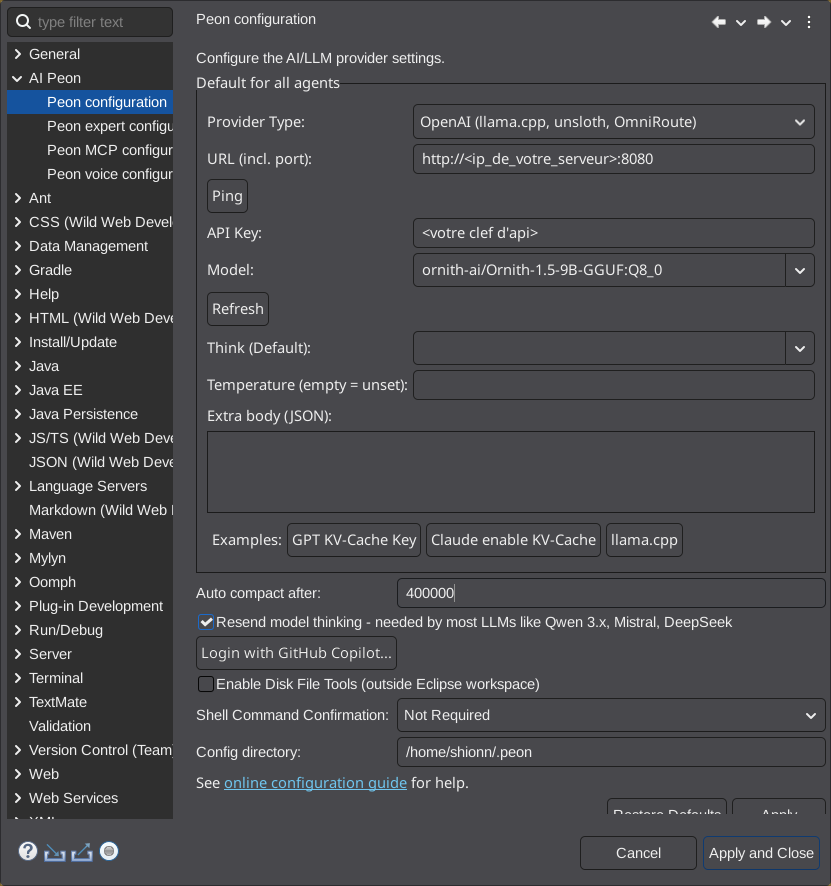
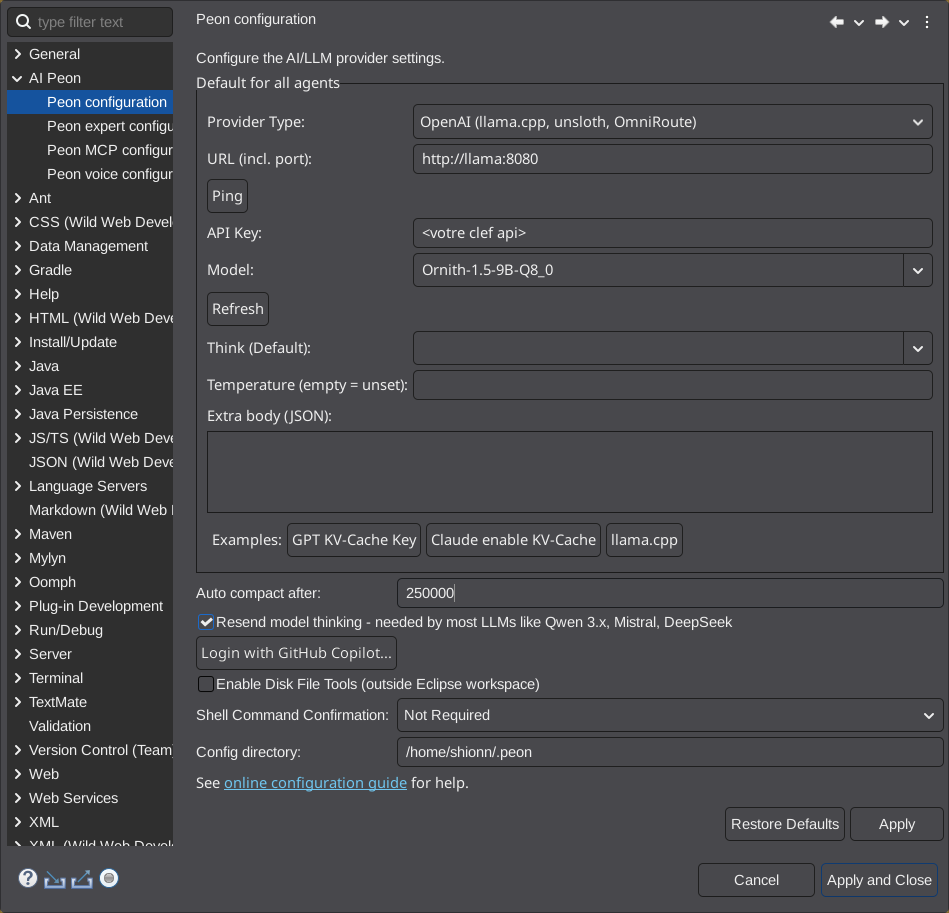
LLama.cpp

diff --git a/docs/draft/llama-proxmox-nvidia.html b/docs/draft/llama-proxmox-nvidia.html
@@ -248,7 +248,7 @@
 			<article>
 	<header>
 		
-		<h1><a href="draft/llama-proxmox-nvidia.html">LLama dans Proxmox avec Nvidia</a></h1>
+		<h1><a href="draft/llama-proxmox-nvidia.html">Llama dans Proxmox avec Nvidia</a></h1>
 		<div>
 			<span>Publié le 21 novembre 2026</span>
 			<span>
@@ -261,7 +261,7 @@
 			</span>
 		</div>
 	</header>
-	<section><p>Dans un <a href="2026/nvidia-proxmox-lxc-passthrought-ollama.html">précédent article</a> j'expliquais comment j'avais installé Ollama et Open Webui dans un conteneur LXC sur Proxmox en faisant un passthrough de ma 2080Ti. Aujourd'hui cet article est très proche du précédent, je recommence avec <a href="https://llama.cpp/" target="_blank">llama.cpp</a> mais cette fois-ci avec ma nouvelle 2080Ti 22 Go.</p>
+	<section><p>Dans un <a href="2026/nvidia-proxmox-lxc-passthrought-ollama.html">précédent article</a> j'expliquais comment j'avais installé Ollama et Open Webui dans un conteneur LXC sur Proxmox en faisant un passthrough de ma 2080Ti. Aujourd'hui, cet article est très proche du précédent, je recommence avec <a href="https://llama.cpp/" target="_blank">llama.cpp</a> mais cette fois-ci avec ma nouvelle RTX 2080 Ti de 22 Go.</p>
 <h1>Un conteneur Proxmox LXC avec NVIDIA.</h1>
 <h2>Installation des drivers NVIDIA.</h2>
 <p>Il faut installer les drivers NVIDIA sur votre serveur Proxmox.
@@ -276,7 +276,7 @@ Pour cela, commencez par mettre à jour votre serveur :</p>
 Cela passe les drivers nouveaux en blacklist et installe quelques paquets nécessaires.</p>
 <pre class="shell"><code class="shell">pve-nvidia-vgpu-helper setup
 </code></pre>
-<p>Ensuite il ne vous reste plus qu'à installer les paquets du driver NVIDIA ensuite la méthode extrepo :</p>
+<p>Ensuite il ne vous reste plus qu'à installer les paquets du driver NVIDIA, puis la méthode extrepo :</p>
 <pre class="shell"><code class="shell">apt install extrepo
 extrepo enable nvidia-cuda
 apt update
@@ -284,7 +284,7 @@ apt install nvidia-open
 </code></pre>
 <h2>Création du conteneur</h2>
 <p>Je crée ici un conteneur Debian 13 avec 4 cœurs, 16 Go de RAM et 64 Go de disque.
-J'ajouterai par la suite si j'ai besoin d'en plus.
+J'ajouterai par la suite si j'ai besoin d'en ajouter.
 Il n'est pas nécessaire d'avoir un conteneur non privilégié.</p>
 <p>Une fois votre conteneur créé, il faut partager votre carte à votre conteneur.
 Commençons par identifier les périphériques NVIDIA :</p>
@@ -338,7 +338,7 @@ apt install nvidia-open
 <p>Ici c'est assez simple, il suffit de suivre la procédure officielle :</p>
 <pre class="shell"><code class="shell">curl -LsSf https://llama.app/install.sh | sh
 </code></pre>
-<p>Comme llama s'installe dans votre home (ici je m'embête pas je le fais en root) il faut ensuite l'ajouter à votre PATH. Ajoutez cette ligne à votre .profile :</p>
+<p>Comme llama s'installe dans votre home (ici je m'embête pas, je le fais en root), il faut ensuite l'ajouter à votre PATH. Ajoutez cette ligne à votre .profile :</p>
 <pre class="shell"><code class="shell">export PATH=&quot;$HOME/.local/bin:$PATH&quot;
 </code></pre>
 <h2>Installation en service</h2>
@@ -363,12 +363,14 @@ export PATH=&quot;$HOME/.local/bin:$PATH&quot;
 
 # à adapter en fonction de votre modèle et la VRAM que vous avez.
 # Attention ici j'ai un gros cache mais n'oubliez pas que j'ai 22 Go de VRAM.
-export LLAMA_ARG_CTX_SIZE=&quot;400000&quot;
+export LLAMA_ARG_CTX_SIZE=&quot;262144&quot;
 
 llama serve --host 0.0.0.0 \
   --n-gpu-layers all \
   --flash-attn on \
   -ctk q8_0 -ctv q8_0 \
+  --spec-type draft-dflash \
+  --models-preset models.ini \
   --api-key-file api-key
 </code></pre>
 <p>Explications</p>
@@ -379,22 +381,39 @@ llama serve --host 0.0.0.0 \
 <li>-ctk q8_0 : Quantifier le cache K en 8 bits au lieu de fp16</li>
 <li>-ctv q8_0 : Quantifier le cache V en 8 bits au lieu de fp16</li>
 <li>--api-key-file api-key : fichier des clés d'authentification, une clé par ligne</li>
+<li>--spec-type draft-dflash : c'est pour les models draft (voir plus bas)</li>
+<li>--models-preset models.ini : fichier de parametrage de models (voir plus bas)</li>
 </ul>
 <p>Puis finalisons l'installation du service</p>
 <pre class="shell"><code class="shell">systemctl daemon-reload
 systemctl enable llama-serve.service
 </code></pre>
 <h2>Télécharger un premier modèle</h2>
-<p>J'aime beaucoup le modèle Ornith, il est vraiment adapté à la génération de code en agentique et n'est pas très lourd. Je prends ici la version quantisée en 8 bit mais vous pouvez prendre la version Q6_K qui est aussi très performante.</p>
+<p>J'aime beaucoup le modèle Ornith, il est vraiment adapté à la génération de code de façon agentique et n'est pas très lourd.
+Je prends ici la version quantisée à 8 bits mais vous pouvez prendre la version Q6_K qui est aussi très performante.</p>
 <pre class="shell"><code class="shell">llama download -hf ornith-ai/Ornith-1.5-9B-GGUF:Q8_0
+</code></pre>
+<p>Pui télécharger son model draft.
+Un modèle DFlash permet d'accélérer le décodage spéculatif en générant un brouillon en amont de la déduction.
+Sur ce model, sans le DFlash j'ai une génération d'environ 50 tok/seconde et avec environ 70.</p>
+<pre class="shell"><code class="shell">llama download -hf abenzerps/Ornith-1.5-9B-DFlash-GGUF:Q8_0
+</code></pre>
+<h2>Paramétrer les models</h2>
+<p>Chaque model peu avoir des parametres différents. C'est a cela que sert le fichiers models.ini qu'on a paramétré plus tot. En autre ca permet de definir le model draft adapté à chaque model et la taille du cache.</p>
+<pre class="shell"><code class="shell">[*]
+
+[Ornith-1.5-9B-Q8_0]
+ctx-size=262144
+hf=ornith-ai/Ornith-1.5-9B-GGUF:Q8_0
+hf-repo-draft=abenzerps/Ornith-1.5-9B-DFlash-GGUF:Q8_0
 </code></pre>
 <p>Puis relancez le service :</p>
 <pre class="shell"><code class="shell">systemctl enable llama-serve.service
 </code></pre>
 <h2>Test</h2>
-<p>Vous pouvez vous connecter au port 8080 de votre serveur à l'aide de votre navigateur et commencer à l'utiliser</p>
+<p>Vous pouvez vous connecter au port 8080 de votre serveur à l'aide de votre navigateur et commencer à l'utiliser.</p>
 <div class="gallery"><a href="/pictures/linux/proxmox-lxc-llama/llama-interface-web.png"><img src="/pictures/linux/proxmox-lxc-llama/llama-interface-web-500-400.png" width="500" height="400"></a></div>
-<h1>Utilisation en agentique dans Eclipse</h1>
+<h1>Utilisation de façon agentique dans Eclipse</h1>
 <h2>Installation de Peon AI</h2>
 <p>J'utilise l'extension PeonAI pour faire de l'agentique. Il peut s'installer via le marketplace d'Eclipse :</p>
 <div class="gallery"><a href="/pictures/linux/proxmox-lxc-llama/peon-ai-eclipse-marketplace.png"><img src="/pictures/linux/proxmox-lxc-llama/peon-ai-eclipse-marketplace.png"></a></div>
@@ -403,7 +422,7 @@ systemctl enable llama-serve.service
 <p>Puis vous pouvez l'utiliser en ouvrant la vue <code>AI Peon</code> dans <code>Window &gt; Show View &gt; Other &gt; AI</code>. Ici je lui demande de corriger cet article.</p>
 <div class="gallery"><a href="/pictures/linux/proxmox-lxc-llama/peon-ai-eclipse-utilisation.png"><img src="/pictures/linux/proxmox-lxc-llama/peon-ai-eclipse-utilisation.png"></a></div></section>
 	<footer>
-		<em class="author">par Shionn, le 21 novembre 2026.</em>
+		<em class="author">par Shionn, le 21 novembre 2026<span>, derniére modification le 23 octobre 2026</span>.</em>
 		<h2>Commentaires</h2>
 		<div class="comments"></div>
 		<h2>Ajouter un commentaire</h2>

diff --git a/docs/2024/kruelboyz-dominion.html b/docs/2024/kruelboyz-dominion.html
@@ -261,11 +261,11 @@
 			</span>
 		</div>
 	</header>
-	<section><p>Cette armée de Morruck Kruelboyz est composé de figurine de la boite Dominion, et de l'abonnement Stormbringer.</p>
-<p>J'ai eu deux boites dominion, pas de ma volonté.
-De la seconde boite je n'ai gardé que les 10 éventreurs et les 3 Embrocheurs.
-Tous le reste à été donné ou vendu.
-Pourquoi en Violet ? je ne sais pas.</p>
+	<section><p>Cette armée de Morruck Kruelboyz est composée de figurines de la boîte Dominion, et de l'abonnement Stormbringer.</p>
+<p>J'ai eu deux boîtes dominion, pas de ma volonté.
+De la seconde boîte je n'ai gardé que les 10 éventreurs et les 3 Embrocheurs.
+Tout le reste a été donné ou vendu.
+Pourquoi en violet ? Je ne sais pas.</p>
 <h1>Bosskitue avec Grot Surineur</h1>
 <ul>
 <li>Peinte en Mars 2022.</li>
@@ -287,7 +287,7 @@ Pourquoi en Violet ? je ne sais pas.</p>
 </ul>
 <div class="gallery"><a href="pictures/aos/kruelboyz/nobskur-rotetendard/1.jpg"><img src="pictures/aos/kruelboyz/nobskur-rotetendard/1-250-300.jpg" width="250" height="300"></a><a href="pictures/aos/kruelboyz/nobskur-rotetendard/2.jpg"><img src="pictures/aos/kruelboyz/nobskur-rotetendard/2-250-300.jpg" width="250" height="300"></a><a href="pictures/aos/kruelboyz/nobskur-rotetendard/3.jpg"><img src="pictures/aos/kruelboyz/nobskur-rotetendard/3-250-300.jpg" width="250" height="300"></a></div>
 <h1>Eventreurs</h1>
-<p>Pourquoi j'ai fait les 10 de la seconde boite en rouge ? Je ne sais pas.</p>
+<p>Pourquoi j'ai fait les 10 de la seconde boîte en rouge ? Je ne sais pas.</p>
 <ul>
 <li>Peinte en Mars 2022 pour les violets.</li>
 <li>Peinte en Avril 2022 pour les rouges.</li>
@@ -300,13 +300,13 @@ Pourquoi en Violet ? je ne sais pas.</p>
 </ul>
 <div class="gallery"><a href="pictures/aos/kruelboyz/embrocheurs/1.jpg"><img src="pictures/aos/kruelboyz/embrocheurs/1-350-250.jpg" width="350" height="250"></a><a href="pictures/aos/kruelboyz/embrocheurs/2.jpg"><img src="pictures/aos/kruelboyz/embrocheurs/2-350-250.jpg" width="350" height="250"></a><a href="pictures/aos/kruelboyz/embrocheurs/3.jpg"><img src="pictures/aos/kruelboyz/embrocheurs/3-350-250.jpg" width="350" height="250"></a><a href="pictures/aos/kruelboyz/embrocheurs/4.jpg"><img src="pictures/aos/kruelboyz/embrocheurs/4-350-250.jpg" width="350" height="250"></a></div>
 <h1>Egorgeur Hobgrot</h1>
-<p>J'ai pas peint ceux de la seconde boite (faut pas déconner).</p>
+<p>J'ai pas peint ceux de la seconde boîte (faut pas déconner).</p>
 <ul>
 <li>Peinte en Mars 2022.</li>
 </ul>
 <div class="gallery"><a href="pictures/aos/kruelboyz/egorgeur-hobgrot/1.jpg"><img src="pictures/aos/kruelboyz/egorgeur-hobgrot/1-350-250.jpg" width="350" height="250"></a><a href="pictures/aos/kruelboyz/egorgeur-hobgrot/2.jpg"><img src="pictures/aos/kruelboyz/egorgeur-hobgrot/2-350-250.jpg" width="350" height="250"></a><a href="pictures/aos/kruelboyz/egorgeur-hobgrot/3.jpg"><img src="pictures/aos/kruelboyz/egorgeur-hobgrot/3-350-250.jpg" width="350" height="250"></a><a href="pictures/aos/kruelboyz/egorgeur-hobgrot/4.jpg"><img src="pictures/aos/kruelboyz/egorgeur-hobgrot/4-350-250.jpg" width="350" height="250"></a><a href="pictures/aos/kruelboyz/egorgeur-hobgrot/5.jpg"><img src="pictures/aos/kruelboyz/egorgeur-hobgrot/5-350-250.jpg" width="350" height="250"></a><a href="pictures/aos/kruelboyz/egorgeur-hobgrot/6.jpg"><img src="pictures/aos/kruelboyz/egorgeur-hobgrot/6-350-250.jpg" width="350" height="250"></a></div></section>
 	<footer>
-		<em class="author">par Shionn, le 14 avril 2024.</em>
+		<em class="author">par Shionn, le 14 avril 2024<span>, derniére modification le 22 octobre 2026</span>.</em>
 		<h2>Commentaires</h2>
 		<div class="comments"></div>
 		<h2>Ajouter un commentaire</h2>

diff --git a/docs/category/war-game.html b/docs/category/war-game.html
@@ -2374,11 +2374,11 @@ Le corps du sang froid est en plastique mais la tête est en métal.</p>
 			</span>
 		</div>
 	</header>
-	<section><p>Cette armée de Morruck Kruelboyz est composé de figurine de la boite Dominion, et de l'abonnement Stormbringer.</p>
-<p>J'ai eu deux boites dominion, pas de ma volonté.
-De la seconde boite je n'ai gardé que les 10 éventreurs et les 3 Embrocheurs.
-Tous le reste à été donné ou vendu.
-Pourquoi en Violet ? je ne sais pas.</p>
+	<section><p>Cette armée de Morruck Kruelboyz est composée de figurines de la boîte Dominion, et de l'abonnement Stormbringer.</p>
+<p>J'ai eu deux boîtes dominion, pas de ma volonté.
+De la seconde boîte je n'ai gardé que les 10 éventreurs et les 3 Embrocheurs.
+Tout le reste a été donné ou vendu.
+Pourquoi en violet ? Je ne sais pas.</p>
 <h1>Bosskitue avec Grot Surineur</h1>
 <ul>
 <li>Peinte en Mars 2022.</li>

diff --git a/docs/tag/war-game.html b/docs/tag/war-game.html
@@ -2374,11 +2374,11 @@ Le corps du sang froid est en plastique mais la tête est en métal.</p>
 			</span>
 		</div>
 	</header>
-	<section><p>Cette armée de Morruck Kruelboyz est composé de figurine de la boite Dominion, et de l'abonnement Stormbringer.</p>
-<p>J'ai eu deux boites dominion, pas de ma volonté.
-De la seconde boite je n'ai gardé que les 10 éventreurs et les 3 Embrocheurs.
-Tous le reste à été donné ou vendu.
-Pourquoi en Violet ? je ne sais pas.</p>
+	<section><p>Cette armée de Morruck Kruelboyz est composée de figurines de la boîte Dominion, et de l'abonnement Stormbringer.</p>
+<p>J'ai eu deux boîtes dominion, pas de ma volonté.
+De la seconde boîte je n'ai gardé que les 10 éventreurs et les 3 Embrocheurs.
+Tout le reste a été donné ou vendu.
+Pourquoi en violet ? Je ne sais pas.</p>
 <h1>Bosskitue avec Grot Surineur</h1>
 <ul>
 <li>Peinte en Mars 2022.</li>

diff --git a/docs/tag/arm-e.html b/docs/tag/arm-e.html
@@ -597,11 +597,11 @@ Le corps du sang froid est en plastique mais la tête est en métal.</p>
 			</span>
 		</div>
 	</header>
-	<section><p>Cette armée de Morruck Kruelboyz est composé de figurine de la boite Dominion, et de l'abonnement Stormbringer.</p>
-<p>J'ai eu deux boites dominion, pas de ma volonté.
-De la seconde boite je n'ai gardé que les 10 éventreurs et les 3 Embrocheurs.
-Tous le reste à été donné ou vendu.
-Pourquoi en Violet ? je ne sais pas.</p>
+	<section><p>Cette armée de Morruck Kruelboyz est composée de figurines de la boîte Dominion, et de l'abonnement Stormbringer.</p>
+<p>J'ai eu deux boîtes dominion, pas de ma volonté.
+De la seconde boîte je n'ai gardé que les 10 éventreurs et les 3 Embrocheurs.
+Tout le reste a été donné ou vendu.
+Pourquoi en violet ? Je ne sais pas.</p>
 <h1>Bosskitue avec Grot Surineur</h1>
 <ul>
 <li>Peinte en Mars 2022.</li>

diff --git a/docs/tag/aos.html b/docs/tag/aos.html
@@ -831,11 +831,11 @@ j'ai ajouté un canon à malfoudre provenant des colosses de chocs.</p>
 			</span>
 		</div>
 	</header>
-	<section><p>Cette armée de Morruck Kruelboyz est composé de figurine de la boite Dominion, et de l'abonnement Stormbringer.</p>
-<p>J'ai eu deux boites dominion, pas de ma volonté.
-De la seconde boite je n'ai gardé que les 10 éventreurs et les 3 Embrocheurs.
-Tous le reste à été donné ou vendu.
-Pourquoi en Violet ? je ne sais pas.</p>
+	<section><p>Cette armée de Morruck Kruelboyz est composée de figurines de la boîte Dominion, et de l'abonnement Stormbringer.</p>
+<p>J'ai eu deux boîtes dominion, pas de ma volonté.
+De la seconde boîte je n'ai gardé que les 10 éventreurs et les 3 Embrocheurs.
+Tout le reste a été donné ou vendu.
+Pourquoi en violet ? Je ne sais pas.</p>
 <h1>Bosskitue avec Grot Surineur</h1>
 <ul>
 <li>Peinte en Mars 2022.</li>

diff --git a/docs/index-20.html b/docs/index-20.html
@@ -290,11 +290,11 @@ David si tu passes par là encore merci.</p>
 			</span>
 		</div>
 	</header>
-	<section><p>Cette armée de Morruck Kruelboyz est composé de figurine de la boite Dominion, et de l'abonnement Stormbringer.</p>
-<p>J'ai eu deux boites dominion, pas de ma volonté.
-De la seconde boite je n'ai gardé que les 10 éventreurs et les 3 Embrocheurs.
-Tous le reste à été donné ou vendu.
-Pourquoi en Violet ? je ne sais pas.</p>
+	<section><p>Cette armée de Morruck Kruelboyz est composée de figurines de la boîte Dominion, et de l'abonnement Stormbringer.</p>
+<p>J'ai eu deux boîtes dominion, pas de ma volonté.
+De la seconde boîte je n'ai gardé que les 10 éventreurs et les 3 Embrocheurs.
+Tout le reste a été donné ou vendu.
+Pourquoi en violet ? Je ne sais pas.</p>
 <h1>Bosskitue avec Grot Surineur</h1>
 <ul>
 <li>Peinte en Mars 2022.</li>

diff --git a/docs/tag/kruelboyz.html b/docs/tag/kruelboyz.html
@@ -261,11 +261,11 @@
 			</span>
 		</div>
 	</header>
-	<section><p>Cette armée de Morruck Kruelboyz est composé de figurine de la boite Dominion, et de l'abonnement Stormbringer.</p>
-<p>J'ai eu deux boites dominion, pas de ma volonté.
-De la seconde boite je n'ai gardé que les 10 éventreurs et les 3 Embrocheurs.
-Tous le reste à été donné ou vendu.
-Pourquoi en Violet ? je ne sais pas.</p>
+	<section><p>Cette armée de Morruck Kruelboyz est composée de figurines de la boîte Dominion, et de l'abonnement Stormbringer.</p>
+<p>J'ai eu deux boîtes dominion, pas de ma volonté.
+De la seconde boîte je n'ai gardé que les 10 éventreurs et les 3 Embrocheurs.
+Tout le reste a été donné ou vendu.
+Pourquoi en violet ? Je ne sais pas.</p>
 <h1>Bosskitue avec Grot Surineur</h1>
 <ul>
 <li>Peinte en Mars 2022.</li>

diff --git a/docs/draft.html b/docs/draft.html
@@ -256,7 +256,7 @@
 					29 novembre 2026
 				</li>
 				<li>
-					<a href="draft/llama-proxmox-nvidia.html">LLama dans Proxmox avec Nvidia</a>
+					<a href="draft/llama-proxmox-nvidia.html">Llama dans Proxmox avec Nvidia</a>
 					21 novembre 2026
 				</li>
 				<li>

diff --git a/content/linux/server/llama-proxmox-nvidia.md b/content/linux/server/llama-proxmox-nvidia.md
@@ -1,4 +1,4 @@
-Dans un [précédent article](2026/nvidia-proxmox-lxc-passthrought-ollama.html) j'expliquais comment j'avais installé Ollama et Open Webui dans un conteneur LXC sur Proxmox en faisant un passthrough de ma 2080Ti. Aujourd'hui cet article est très proche du précédent, je recommence avec [llama.cpp](https://llama.cpp/) mais cette fois-ci avec ma nouvelle 2080Ti 22 Go.
+Dans un [précédent article](2026/nvidia-proxmox-lxc-passthrought-ollama.html) j'expliquais comment j'avais installé Ollama et Open Webui dans un conteneur LXC sur Proxmox en faisant un passthrough de ma 2080Ti. Aujourd'hui, cet article est très proche du précédent, je recommence avec [llama.cpp](https://llama.cpp/) mais cette fois-ci avec ma nouvelle RTX 2080 Ti de 22 Go.
 
 # Un conteneur Proxmox LXC avec NVIDIA.
 
@@ -25,7 +25,7 @@ Cela passe les drivers nouveaux en blacklist et installe quelques paquets néces
 pve-nvidia-vgpu-helper setup
 ~~~
 
-Ensuite il ne vous reste plus qu'à installer les paquets du driver NVIDIA ensuite la méthode extrepo :
+Ensuite il ne vous reste plus qu'à installer les paquets du driver NVIDIA, puis la méthode extrepo :
 
 ~~~shell
 apt install extrepo
@@ -37,10 +37,10 @@ apt install nvidia-open
 ## Création du conteneur
 
 Je crée ici un conteneur Debian 13 avec 4 cœurs, 16 Go de RAM et 64 Go de disque.
-J'ajouterai par la suite si j'ai besoin d'en plus.
+J'ajouterai par la suite si j'ai besoin d'en ajouter.
 Il n'est pas nécessaire d'avoir un conteneur non privilégié.
 
-Une fois votre conteneur créé, il faut partager votre carte à votre conteneur.
+Une fois votre conteneur créé, il faut partager votre carte avec votre conteneur.
 Commençons par identifier les périphériques NVIDIA :
 
 ~~~shell
@@ -116,7 +116,7 @@ Ici c'est assez simple, il suffit de suivre la procédure officielle :
 curl -LsSf https://llama.app/install.sh | sh
 ~~~
 
-Comme llama s'installe dans votre home (ici je m'embête pas je le fais en root) il faut ensuite l'ajouter à votre PATH. Ajoutez cette ligne à votre .profile :
+Comme llama s'installe dans votre home (ici je m'embête pas, je le fais en root), il faut ensuite l'ajouter à votre PATH. Ajoutez cette ligne à votre .profile :
 
 ~~~shell
 export PATH="$HOME/.local/bin:$PATH"
@@ -156,6 +156,8 @@ llama serve --host 0.0.0.0 \
   --n-gpu-layers all \
   --flash-attn on \
   -ctk q8_0 -ctv q8_0 \
+  --spec-type draft-dflash \
+  --models-preset models.ini \
   --api-key-file api-key
 ~~~
 
@@ -166,6 +168,8 @@ Explications
 - -ctk q8_0 : Quantifier le cache K en 8 bits au lieu de fp16
 - -ctv q8_0 : Quantifier le cache V en 8 bits au lieu de fp16
 - --api-key-file api-key : fichier des clés d'authentification, une clé par ligne
+- --spec-type draft-dflash : c'est pour les modèles draft (voir plus bas)
+- --models-preset models.ini : fichier de parametrage de models (voir plus bas) 
 
 Puis finalisons l'installation du service
 
@@ -176,11 +180,32 @@ systemctl enable llama-serve.service
 
 ## Télécharger un premier modèle
 
-J'aime beaucoup le modèle Ornith, il est vraiment adapté à la génération de code en agentique et n'est pas très lourd. 
-Je prends ici la version quantisée en 8 bit mais vous pouvez prendre la version Q6_K qui est aussi très performante.
+J'aime beaucoup le modèle Ornith, il est vraiment adapté à la génération de code de façon agentique et n'est pas très lourd. 
+Je prends ici la version quantisée à 8 bits mais vous pouvez prendre la version Q6_K qui est aussi très performante.
 
 ~~~shell
 llama download -hf ornith-ai/Ornith-1.5-9B-GGUF:Q8_0
+~~~
+
+Pui télécharger son model draft. 
+Un modèle DFlash permet d'accélérer le décodage spéculatif en générant un brouillon en amont de la déduction. 
+Sur ce model, sans le DFlash j'ai une génération d'environ 50 tok/seconde et avec environ 70.
+
+~~~shell
+llama download -hf abenzerps/Ornith-1.5-9B-DFlash-GGUF:Q8_0
+~~~
+
+## Paramétrer les models 
+
+Chaque model peu avoir des parametres différents. C'est a cela que sert le fichiers models.ini qu'on a paramétré plus tot. En autre ca permet de definir le model draft adapté à chaque model et la taille du cache.
+
+~~~shell
+[*]
+
+[Ornith-1.5-9B-Q8_0]
+ctx-size=262144
+hf=ornith-ai/Ornith-1.5-9B-GGUF:Q8_0
+hf-repo-draft=abenzerps/Ornith-1.5-9B-DFlash-GGUF:Q8_0
 ~~~
 
 Puis relancez le service :
@@ -191,25 +216,13 @@ systemctl enable llama-serve.service
 
 ## Test
 
-Vous pouvez vous connecter au port 8080 de votre serveur à l'aide de votre navigateur et commencer à l'utiliser
+Vous pouvez vous connecter au port 8080 de votre serveur à l'aide de votre navigateur et commencer à l'utiliser.
 
 [gallery w=500 h=400]
 /pictures/linux/proxmox-lxc-llama/llama-interface-web.png
 [/gallery]
 
-## Ajout d'un model DFlash
-
-Un model Dflash permet d'accelerer le décodage spéculatif en generant des brouillon en amont de la deduction. 
-
-~~~shell
-# téléchargement
-llama download -hf abenzerps/Ornith-1.5-9B-DFlash-GGUF:Q8_0
-# option à ajouter 
---spec-draft-model Ornith-1.5-9B-DFlash-Q8_0.gguf 
---spec-type draft-dflash 
-~~~
-
-# Utilisation en agentique dans Eclipse
+# Utilisation de façon agentique dans Eclipse
 
 ## Installation de Peon AI
 
